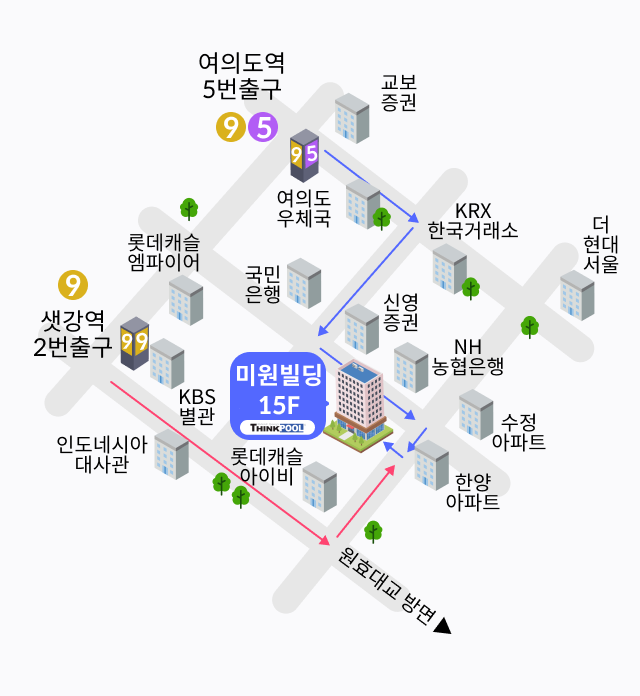
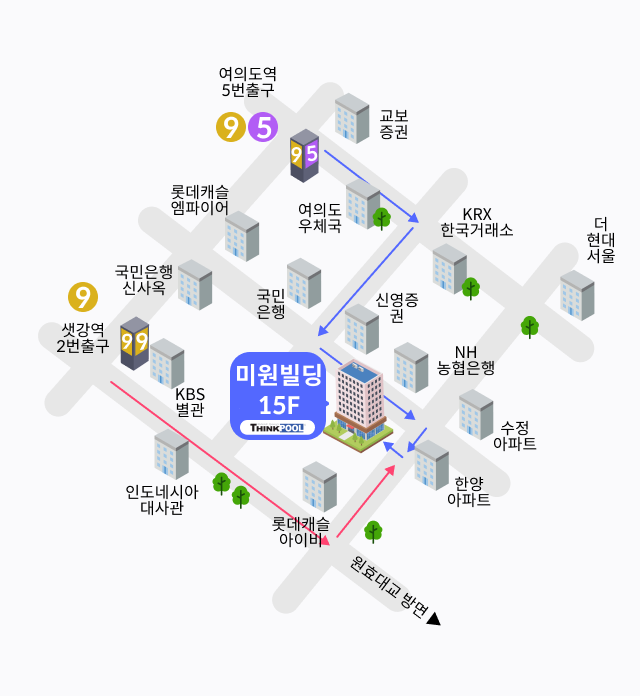
맵이미지 변경

diff --git a/pages/about/contact.vue b/pages/about/contact.vue
@@ -5,7 +5,8 @@
 
     <div class="content">
       <div class="map">
-        <img src="~/assets/image/map.png" alt="맵 데모 이미지" />
+        <img src="~/assets/image/map.png" alt="맵 데모 이미지" class="ko" />
+        <img src="~/assets/image/map_en.png" alt="맵 데모 이미지" class="en" />
       </div>
       <!-- // -->
 
